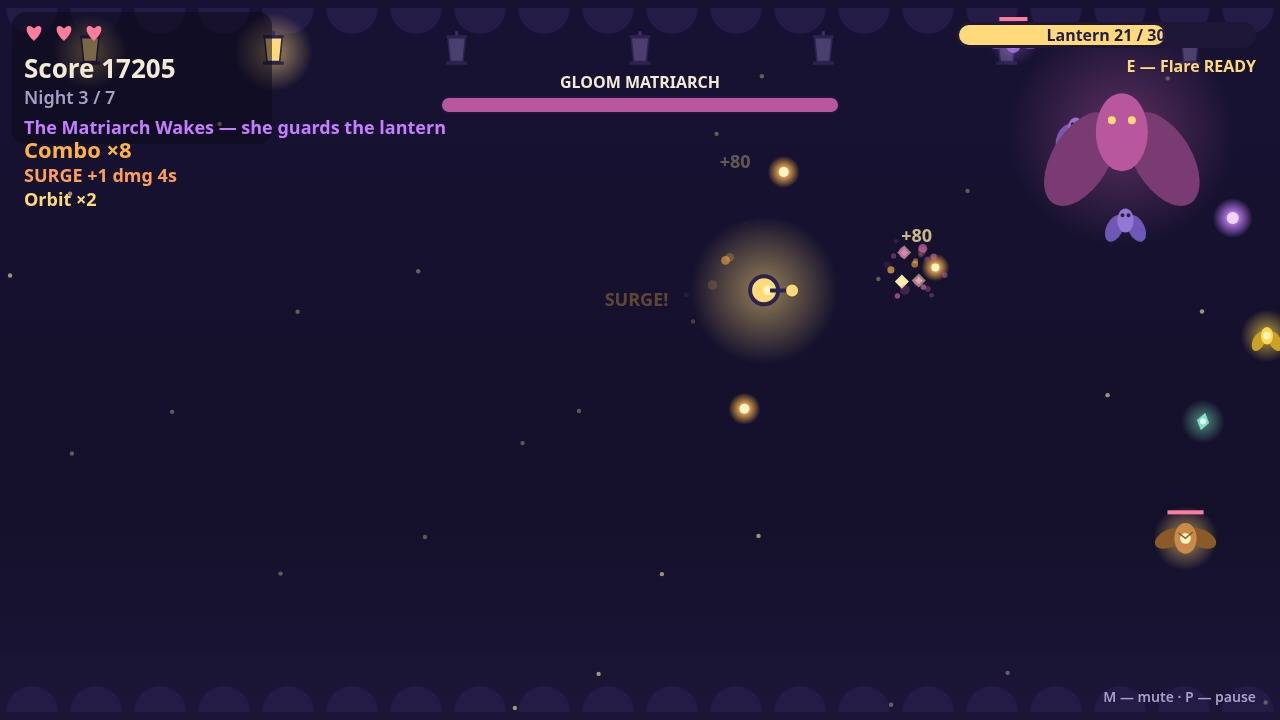
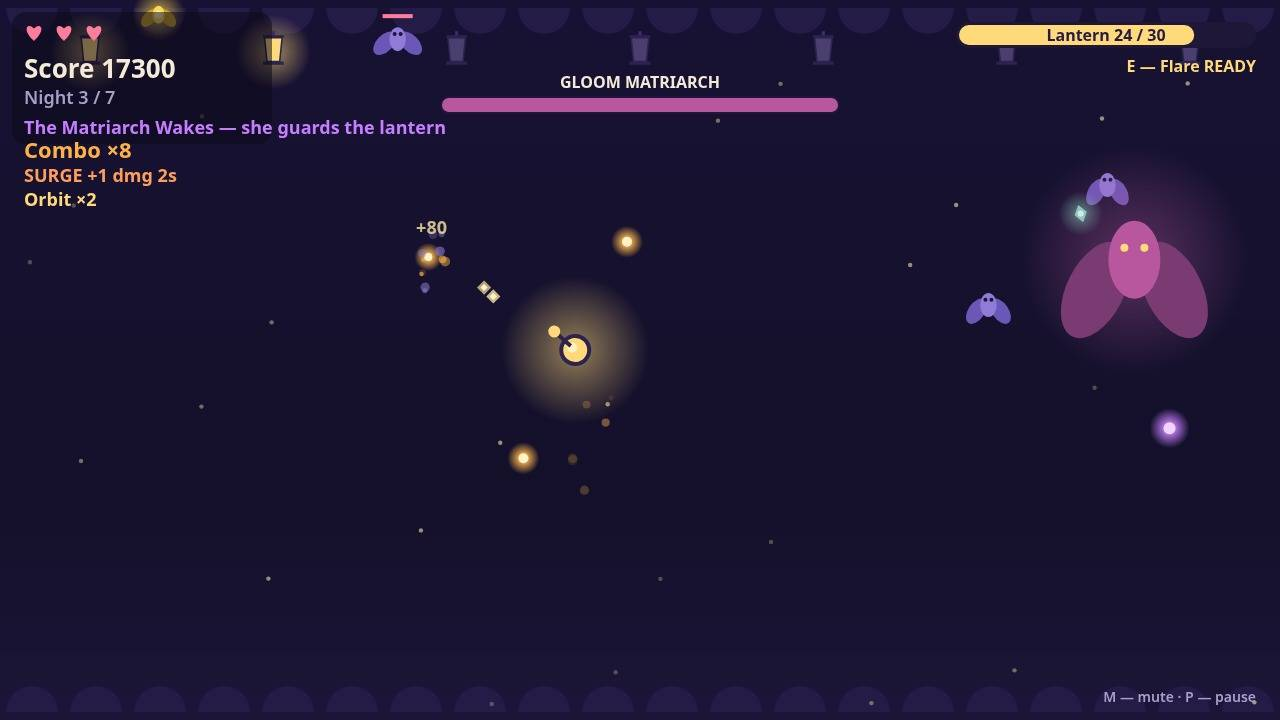
Quality round 3e: Ember Chain upgrade (12th card)
- Bursts leap to the nearest moth within 160px, once per chain level, with a
  fading lightning line + burst at each hop (chainFx, decayed in stepParticles).
  Chain kills do not chain again — one leap per burst, not a cascade.
- Autopilot 15 seeds x 5 modes: 75/75 wins (new chain mode included);
  chainHits 245 first-pick / 535 chain-mode per 15 runs; mean score +4.4%
  first-pick vs round 3c (32,102 -> 33,517). Unit checks r7 4/4.
- Upgrade shot (seed 31337) now shows the Ember Chain card; victory shot
  shows FLAWLESS! +250.

diff --git a/game/src/world.js b/game/src/world.js
@@ -6,6 +6,7 @@
 import {
   BOSS,
   COMBO,
+  CHAIN,
   Darter,
   Elder,
   FIELD,
@@ -70,6 +71,7 @@ function freshUpgrades() {
     comboMax: COMBO.max,
     ward: 0,
     orbit: 0,
+    chain: 0,
   };
 }
 
@@ -86,6 +88,8 @@ export function createWorld(random) {
     orbsShotDown: 0,
     orbHits: 0,
     orbitHits: 0,
+    chainHits: 0,
+    chainFx: [],
     shards: [],
     particles: [],
     texts: [],
@@ -151,6 +155,8 @@ export function createWorld(random) {
     state.orbsShotDown = 0;
     state.orbHits = 0;
     state.orbitHits = 0;
+    state.chainHits = 0;
+    state.chainFx.length = 0;
     state.shards.length = 0;
     state.particles.length = 0;
     state.texts.length = 0;
@@ -274,7 +280,7 @@ export function createWorld(random) {
     state.texts.push({ x, y, text, color, life: 1 });
   }
 
-  function killMoth(index, events) {
+  function killMoth(index, events, allowChain) {
     const moth = state.moths[index];
     state.moths.splice(index, 1);
     state.kills += 1;
@@ -300,6 +306,33 @@ export function createWorld(random) {
     burst(moth.x, moth.y, color, darter ? 18 : wisp ? 8 : splitter ? 22 : spitter ? 16 : lantern ? 14 : elder ? 20 : 6, 180);
     dropShards(moth.x, moth.y, darter ? Darter.shards : wisp ? Wisp.shards : splitter ? Splitter.shards : spitter ? Spitter.shards : lantern ? LanternMoth.shards : mote ? Mote.shards : elder ? Elder.shards : MOTH.shards);
     addText(moth.x, moth.y - 18, `+${gained}`, '#ffe9a8');
+    // Ember Chain: the burst leaps to the nearest moth nearby, once per level.
+    // Chain kills do not chain again — one leap per burst, not a cascade.
+    if (allowChain !== false && state.upgrades.chain > 0) {
+      let fx = moth.x;
+      let fy = moth.y;
+      for (let hop = 0; hop < state.upgrades.chain; hop += 1) {
+        let target = -1;
+        let targetD = CHAIN.range * CHAIN.range;
+        for (let j = 0; j < state.moths.length; j += 1) {
+          const m2 = state.moths[j];
+          const dx = m2.x - fx;
+          const dy = m2.y - fy;
+          const d2 = dx * dx + dy * dy;
+          if (d2 < targetD) { targetD = d2; target = j; }
+        }
+        if (target < 0) break;
+        const m2 = state.moths[target];
+        state.chainFx.push({ x1: fx, y1: fy, x2: m2.x, y2: m2.y, life: 0.25 });
+        fx = m2.x;
+        fy = m2.y;
+        m2.hp -= CHAIN.damage;
+        m2.flash = 0.12;
+        state.chainHits += 1;
+        burst(m2.x, m2.y, '#fff3c4', 5, 140);
+        if (m2.hp <= 0) events = killMoth(target, events, false);
+      }
+    }
     if (splitter) {
       // A burst splitter tears into two fast motes — kill it at range, or deal with both.
       for (let i = 0; i < 2; i += 1) {
@@ -783,6 +816,10 @@ export function createWorld(random) {
       t.y -= 34 * dt;
       t.life -= dt * 0.9;
       if (t.life <= 0) state.texts.splice(i, 1);
+    }
+    for (let i = state.chainFx.length - 1; i >= 0; i -= 1) {
+      state.chainFx[i].life -= dt;
+      if (state.chainFx[i].life <= 0) state.chainFx.splice(i, 1);
     }
   }
 

diff --git a/game/src/config.js b/game/src/config.js
@@ -201,6 +201,12 @@ export const ORBIT = {
   hitCooldown: 0.5,
 };
 
+/** Ember Chain: a burst leaps to the nearest moth nearby, once per chain level. */
+export const CHAIN = {
+  range: 160,
+  damage: 1,
+};
+
 /** Lantern Flare: press E to spend shards from the lantern meter and burst every
  * moth (and gloom orb) close to the keeper. Shards are the night's quota, so a
  * flare buys safety with progress — and it has a cooldown. */
@@ -277,6 +283,12 @@ export const UPGRADES = [
     title: 'Lantern Ward',
     blurb: 'A ward that absorbs one hit each night, then renews.',
     apply: (u) => { u.ward += 1; },
+  },
+  {
+    id: 'ember-chain',
+    title: 'Ember Chain',
+    blurb: 'Bursts leap to a nearby moth, once per level.',
+    apply: (u) => { u.chain += 1; },
   },
   {
     id: 'ember-orbit',

diff --git a/game/src/render.js b/game/src/render.js
@@ -495,6 +495,16 @@ export function createRenderer(canvas) {
       dot(pt.x, pt.y, pt.size, pt.color);
     }
     ctx.globalAlpha = 1;
+    for (const fx of state.chainFx) {
+      ctx.globalAlpha = Math.max(0, fx.life / 0.25);
+      ctx.strokeStyle = '#fff3c4';
+      ctx.lineWidth = 2.5;
+      ctx.beginPath();
+      ctx.moveTo(fx.x1, fx.y1);
+      ctx.lineTo(fx.x2, fx.y2);
+      ctx.stroke();
+    }
+    ctx.globalAlpha = 1;
     ctx.textAlign = 'center';
     for (const t of state.texts) {
       ctx.globalAlpha = Math.max(0, Math.min(1, t.life));

diff --git a/README.md b/README.md
@@ -26,8 +26,8 @@ when spitters double; night 5 the Swarm Night, the garden spawning faster with
 more moths at once; night 6 the Matriarch Returns, calling darters instead of
 moths; night 7 the Dawn Rush. Between nights, choose 1 of 3 blessings (faster
 embers, tri-flame, piercing embers, swift boots, wide net, heavy embers, warm
-heart, Ember Nova, Ember Echo, Lantern Ward, Ember Orbit). From night 2, quick
-darting Gloom Wisps weave in among the moths and darters; from night 3, bloated
+heart, Ember Nova, Ember Echo, Lantern Ward, Ember Orbit, Ember Chain). From
+night 2, quick darting Gloom Wisps weave in among the moths and darters; from night 3, bloated
 Gloom Splitters burst into two fast motes when killed — shoot them at range or
 deal with both — and dark-violet Gloom Spitters hold at range and spit slow
 gloom orbs at you, telegraphing each shot with a flare: step aside, or shoot
@@ -54,7 +54,7 @@ moth cap rises, so hold the line until dawn.
 - A complete loop: title → 7 named nights with escalating moths, darters,
   wisps, splitters, motes, elders, spitters and fleeing lantern-moths →
   an enraging boss who changes what she summons and bursts in fury at low
-  health → 11 upgrade choices → victory or game-over screen → restart /
+  health → 12 upgrade choices → victory or game-over screen → restart /
   endless. Each night has its own name and twist: First Dark, Wisp Tide, the
   Matriarch Wakes, Spitter's Watch, Swarm Night, the Matriarch Returns, and
   the Dawn Rush finale.
